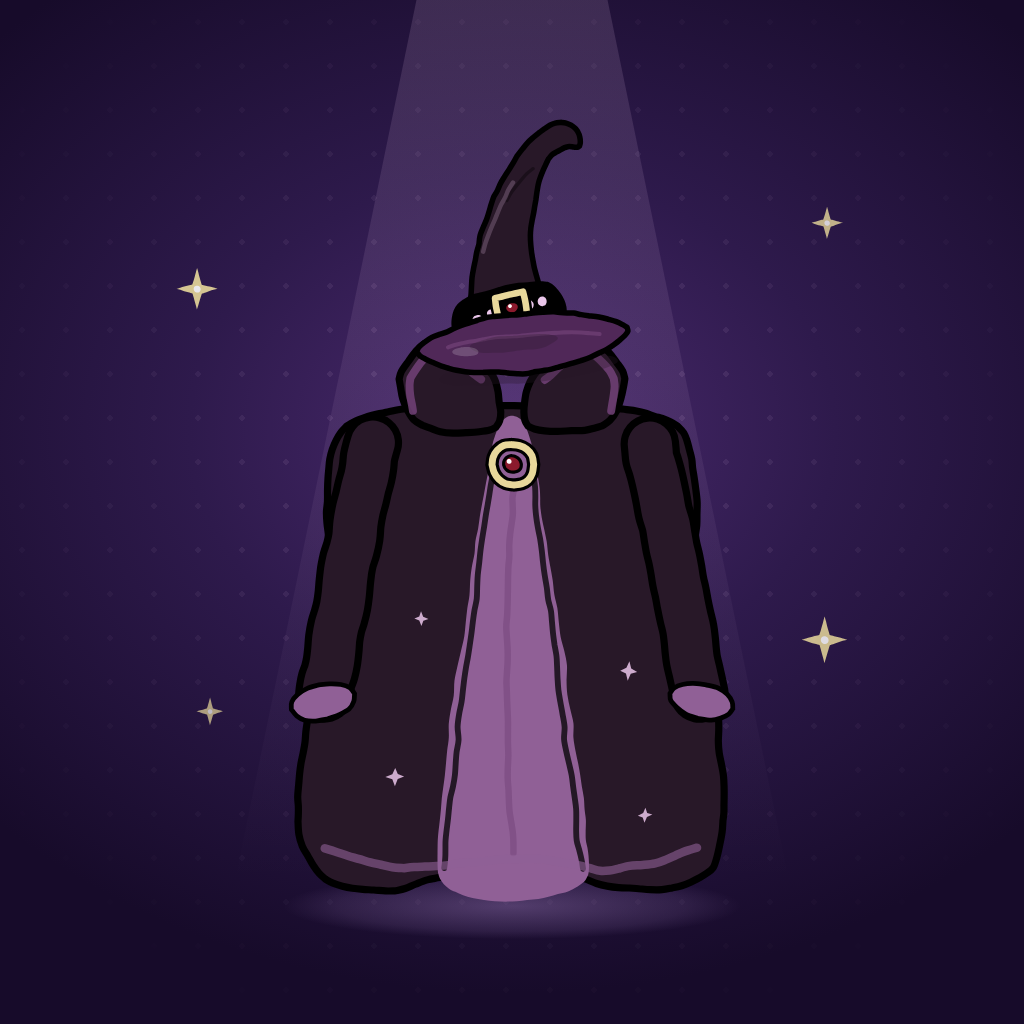
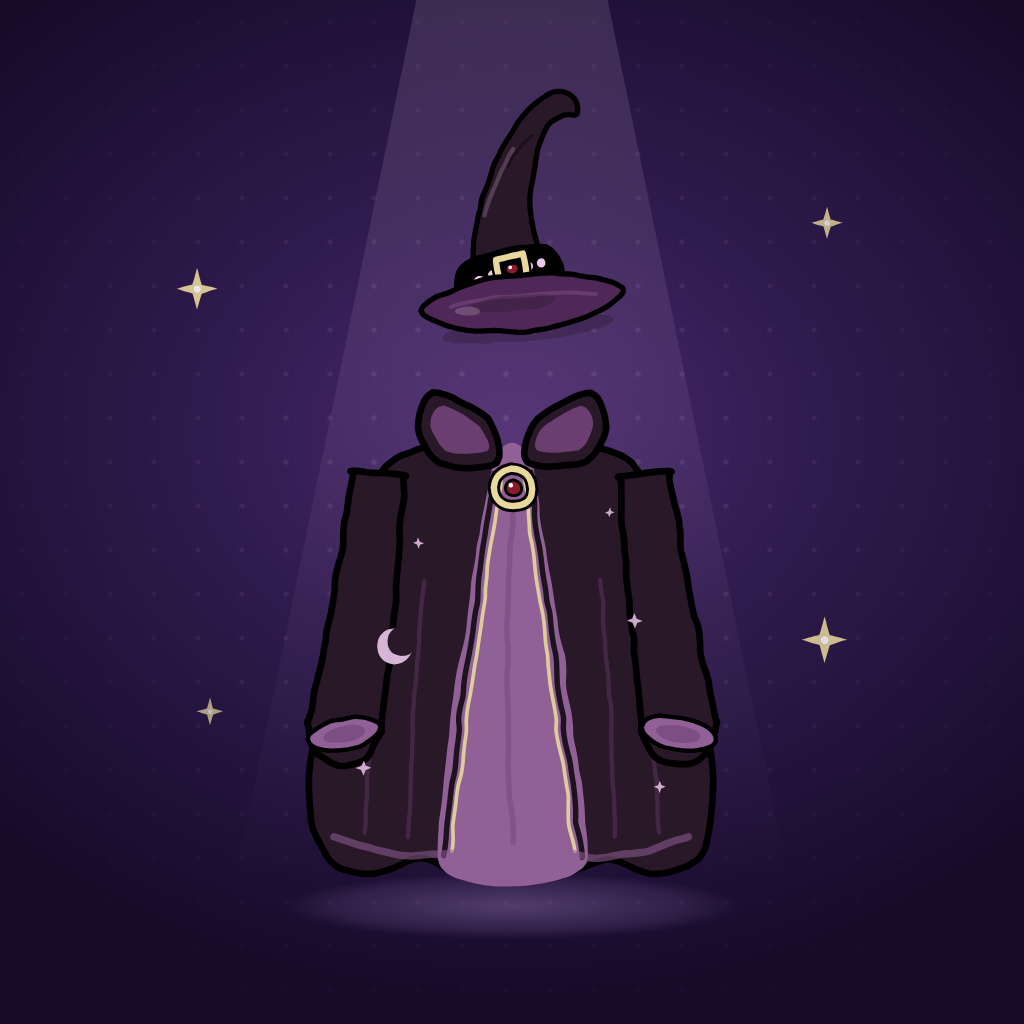
Item image: the hat floats above the robe; the robe finished
The hat now sits a small gap above the collar rather than on it. The robe got its finishing pass:
sloped shoulders, drape lines so it reads as cloth, gold piping down the front edges to echo the
buckle, long bell sleeves with lining cuffs instead of stubby tubes, a modest pointed stand-up collar
(the first attempt at lapels was tall enough to read as a pair of ears), a crescent on one panel and
stars on both, a scalloped hem. `tapered` is imported into props.py for the sleeves.

Changed region(s): [[0.2812, 0.0625, 0.7188, 0.9062]]

diff --git a/apps/web/public/brand/items/index.html b/apps/web/public/brand/items/index.html
@@ -37,6 +37,6 @@ collection logo also covers the bottom-left corner, which is why there is no tex
 <div class="frame"><img src="../items-x-header.png" alt=""></div></div>
 <div class="piece"><h2>Link preview (Open Graph / X card) · 2400×1260 (1.91:1).<small>2400×1260 · 909 KB · <a href="../items-og.png" download>items-og.png</a></small></h2>
 <div class="frame"><img src="../items-og.png" alt=""></div></div>
-<div class="piece"><h2>Item card · 1:1. The witch outfit as its token image: the costume alone, on a hanger, no cat, so it fits any character later.<small>1024×1024 · 447 KB · <a href="../item-witch.png" download>item-witch.png</a></small></h2>
+<div class="piece"><h2>Item card · 1:1. The witch outfit as its token image: the costume alone, on a hanger, no cat, so it fits any character later.<small>1024×1024 · 480 KB · <a href="../item-witch.png" download>item-witch.png</a></small></h2>
 <div class="frame"><img src="../item-witch.png" alt=""></div></div>
 </body></html>

diff --git a/packages/pet/design/props.py b/packages/pet/design/props.py
@@ -7,7 +7,7 @@ for the rig (food layers in the bowl, stink lines on the poop, ...).
 import os, sys, math
 sys.path.insert(0, os.path.dirname(os.path.abspath(__file__)))
 from cat import (INK, FUR, HAIR, STRAND, PURPLE, LAV, LAV2, PINK, GOLD, GOLD2, RUBY, GREEN, TEAL, PUPIL,
-                 LW, LD, smooth_closed, smooth_open, poly, path, ellipse, tube)
+                 LW, LD, smooth_closed, smooth_open, poly, path, ellipse, tube, tapered)
 from wobble import bake
 
 OUT = os.path.normpath(os.path.join(os.path.dirname(os.path.abspath(__file__)), "..", "props"))
@@ -518,38 +518,50 @@ def milk():
 
 
 def robehung():
-    """The witch robe as a garment on a hanger, for the item's own picture: no cat in it, so it can be
-    sold for any character later. An A-line cloak with the front open in a V on the lining, sleeves in
-    front angled out with lining cuffs, a pointed stand-up collar, a clasp at the throat like the hat's
-    buckle, a wavy hem, stars. No hanger: the outfit simply stands, the hat resting on the collar."""
+    """The witch robe as a garment, for the item's own picture: no cat in it, so it can be sold for any
+    character later. Sloped shoulders, an A-line cloak to a scalloped hem, drape lines so it reads as
+    cloth, the front open in a V on the lining with gold piping down the edges, long bell sleeves in
+    front with lining cuffs, a pointed stand-up collar, a ruby clasp at the throat like the hat's
+    buckle, a crescent and stars. No hanger; the hat floats a little above it in the card."""
     g = []
-    cloak = [(38, 68), (30, 120), (24, 170), (20, 216), (30, 238), (56, 242), (80, 236), (100, 240), (120, 236),
-             (144, 242), (170, 238), (180, 216), (176, 170), (170, 120), (162, 68), (100, 60)]
+    cloak = [(46, 82), (32, 126), (22, 172), (18, 214), (26, 238), (44, 243), (62, 237), (80, 243), (100, 238),
+             (120, 243), (138, 237), (156, 243), (174, 238), (182, 214), (178, 172), (168, 126), (154, 82),
+             (134, 70), (100, 74), (66, 70)]
     g.append(path(smooth_closed(cloak, 0.45), PUPIL, INK, LW))
-    g.append(path(smooth_closed([(93, 74), (107, 74), (128, 236), (72, 236)], 0.25), PURPLE, "none", 0))     # the V of lining
-    g.append(path(smooth_open([(94, 76), (84, 150), (74, 234)]), "none", INK, 2.2, 'opacity="0.75"'))
-    g.append(path(smooth_open([(106, 76), (116, 150), (126, 234)]), "none", INK, 2.2, 'opacity="0.75"'))
-    g.append(path(smooth_open([(100, 90), (98, 160), (100, 228)]), "none", STRAND, 2.4, 'opacity="0.5"'))
-    g.append(path(smooth_open([(30, 226), (60, 234), (100, 230), (140, 234), (170, 226)]), "none", PURPLE, 3.2, 'opacity="0.6"'))
-    # sleeves, in front of the cloak, angled out, ending in lining cuffs
-    for sx, dx in ((48, -1), (152, 1)):
-        g += tube([(sx, 74), (sx + dx * 10, 122), (sx + dx * 18, 168)], 22, PUPIL)
-        g.append(f'<g transform="rotate({dx * 14} {sx + dx * 19} 171)">' + ellipse(sx + dx * 19, 171, 12, 6.5, PURPLE, INK, 1.8) + '</g>')
-    # a pointed stand-up collar with a thin lining stripe along its inner edge
-    for wing, lining in (([(66, 68), (58, 50), (70, 36), (92, 48), (94, 68)], [(63, 62), (62, 50), (72, 40), (88, 50)]),
-                         ([(134, 68), (142, 50), (130, 36), (108, 48), (106, 68)], [(137, 62), (138, 50), (128, 40), (112, 50)])):
+    # drape
+    for pts in ([(50, 112), (44, 170), (40, 226)], [(64, 124), (60, 178), (58, 228)], [(150, 112), (156, 170), (160, 226)], [(136, 124), (140, 178), (142, 228)]):
+        g.append(path(smooth_open(pts, 0.5), "none", STRAND, 1.8, 'opacity="0.35"'))
+    # the V of lining, its edges, gold piping just inside them, a fold down the middle
+    g.append(path(smooth_closed([(92, 78), (108, 78), (130, 238), (70, 238)], 0.25), PURPLE, "none", 0))
+    g.append(path(smooth_open([(93, 80), (82, 158), (72, 236)]), "none", INK, 2.2, 'opacity="0.8"'))
+    g.append(path(smooth_open([(107, 80), (118, 158), (128, 236)]), "none", INK, 2.2, 'opacity="0.8"'))
+    g.append(path(smooth_open([(95.5, 82), (85, 158), (75, 234)]), "none", GOLD, 1.5, 'opacity="0.9"'))
+    g.append(path(smooth_open([(104.5, 82), (115, 158), (125, 234)]), "none", GOLD, 1.5, 'opacity="0.9"'))
+    g.append(path(smooth_open([(100, 94), (98, 160), (100, 230)]), "none", STRAND, 2.2, 'opacity="0.45"'))
+    g.append(path(smooth_open([(28, 228), (60, 236), (100, 232), (140, 236), (172, 228)]), "none", PURPLE, 3.0, 'opacity="0.55"'))
+    # bell sleeves, in front, long and tapering out to a wide cuff
+    for sx, dx in ((46, -1), (154, 1)):
+        g += tapered([(sx, 80), (sx + dx * 6, 130), (sx + dx * 14, 184)], 20, 30, 0.5, PUPIL)
+        g.append(f'<g transform="rotate({dx * 10} {sx + dx * 14} 186)">' + ellipse(sx + dx * 14, 186, 15, 6.5, PURPLE, INK, 1.8) + '</g>')
+        g.append(f'<g transform="rotate({dx * 10} {sx + dx * 14} 186)">' + ellipse(sx + dx * 14, 186, 9, 3.4, STRAND, "none", 0, 'opacity="0.6"') + '</g>')
+    # pointed stand-up collar: two lapels folded back to show the lining
+    for wing, lin in (([(70, 76), (62, 62), (68, 48), (90, 58), (94, 76)], [(73, 71), (67, 61), (72, 53), (87, 61), (90, 71)]),
+                      ([(130, 76), (138, 62), (132, 48), (110, 58), (106, 76)], [(127, 71), (133, 61), (128, 53), (113, 61), (110, 71)])):
         g.append(path(smooth_closed(wing, 0.4), PUPIL, INK, LW))
-        g.append(path(smooth_open(lining, 0.4), "none", STRAND, 3.0, 'opacity="0.85"'))
-    # the clasp at the throat
-    g.append(ellipse(100, 82, 7.5, 7.5, "none", INK, 5.0))
-    g.append(ellipse(100, 82, 7.5, 7.5, "none", GOLD, 2.6))
-    g.append(ellipse(100, 82, 3.2, 3.0, RUBY, INK, 1.2))
-    g.append(_glint(99, 81, 0.9))
+        g.append(path(smooth_closed(lin, 0.4), STRAND, "none", 0, 'opacity="0.9"'))
+    # clasp
+    g.append(ellipse(100, 86, 7.5, 7.5, "none", INK, 5.0))
+    g.append(ellipse(100, 86, 7.5, 7.5, "none", GOLD, 2.6))
+    g.append(ellipse(100, 86, 3.2, 3.0, RUBY, INK, 1.2))
+    g.append(_glint(99, 85, 0.9))
+    # a crescent on the left panel, stars on both
+    g.append(ellipse(52, 150, 7.5, 7.5, LAV, "none", 0, 'opacity="0.9"'))
+    g.append(ellipse(55, 148, 6.2, 6.2, PUPIL, "none", 0))
     def star(cx, cy, r):
         return path(f"M{cx},{cy-r} L{cx+r*0.28},{cy-r*0.28} L{cx+r},{cy} L{cx+r*0.28},{cy+r*0.28} L{cx},{cy+r} "
                     f"L{cx-r*0.28},{cy+r*0.28} L{cx-r},{cy} L{cx-r*0.28},{cy-r*0.28} Z", LAV, "none", 0, 'opacity="0.85"')
-    g.append(star(56, 200, 3.4)); g.append(star(66, 140, 2.6)); g.append(star(144, 160, 3.2)); g.append(star(150, 214, 2.6))
-    svg("robehung", 200, 248, g)
+    g.append(star(40, 200, 3.2)); g.append(star(62, 108, 2.4)); g.append(star(150, 140, 3.2)); g.append(star(160, 208, 2.6)); g.append(star(140, 96, 2))
+    svg("robehung", 200, 250, g)
 
 
 for fn in (bowl, poop, tub, yarn, crumb, foam, heart, bubble, sparkle, droplet, puff, scoop, sponge, thought, moon, tangle, sun, coin, flame, grave, witchhat, locker, lockeropen, pricetag, bag, shelf,
